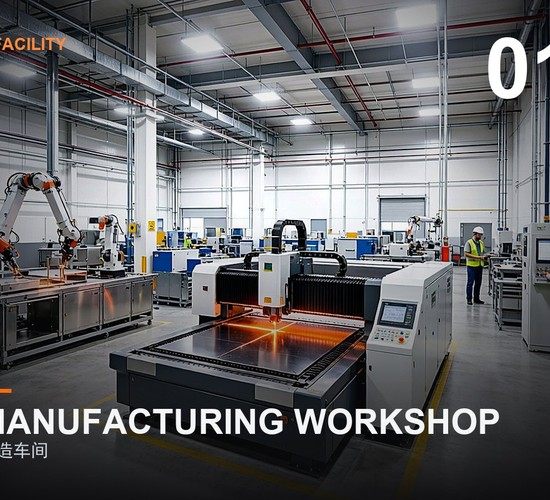
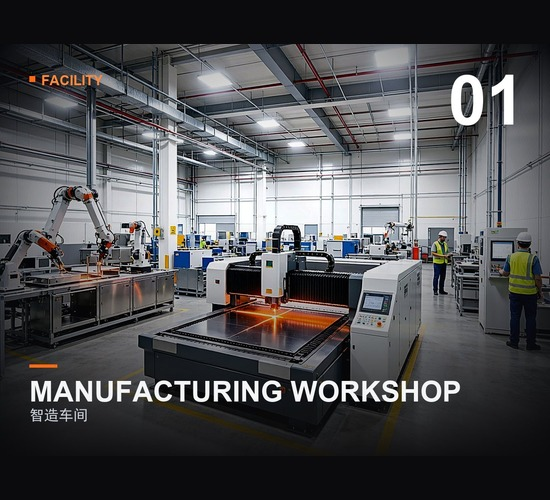
chore(oem-odm): regenerate full-content 550x500 image (contain); bump v12

diff --git a/oem-odm.html b/oem-odm.html
@@ -7,7 +7,7 @@
   <title>Smart Cooking Robot OEM / ODM / JDM Services | Guangdong Dongji</title>
   <meta name="description" content="Dongji is a China-based smart cooking robot OEM, ODM and JDM contract manufacturer. From concept, industrial design and prototyping to certification and mass production — build your own cooking robot brand with a 30,000㎡ in-house factory." />
   <link rel="icon" type="image/png" href="images/logo.png" />
-  <link rel="stylesheet" href="css/style.css?v=11" />
+  <link rel="stylesheet" href="css/style.css?v=12" />
   <link rel="canonical" href="https://smartwokpro.com/oem-odm.html" />
   <script type="application/ld+json">
 {
@@ -107,7 +107,7 @@
   <!-- Hero -->
   <section class="product-hero" id="home">
     <div class="container product-hero-inner">
-      <div class="product-img"><img src="images/factory-550x500.jpg?v=1" alt="Dongji smart cooking robot manufacturing" width="550" height="500" style="width:550px;height:auto;aspect-ratio:auto;object-fit:contain;" /></div>
+      <div class="product-img"><img src="images/factory-550x500.jpg?v=2" alt="Dongji smart cooking robot manufacturing" width="550" height="500" style="width:550px;height:auto;aspect-ratio:auto;object-fit:contain;" /></div>
       <div class="product-intro">
         <nav class="breadcrumb"><a href="index.html">Home</a> / <span>OEM / ODM / JDM</span></nav>
         <span class="tag">Contract Manufacturing</span>

diff --git a/oem-odm-zh.html b/oem-odm-zh.html
@@ -7,7 +7,7 @@
   <title>智能炒菜机 OEM / ODM / JDM 代工 | 广东东吉智能设备</title>
   <meta name="description" content="广东东吉智能设备有限公司是中国智能炒菜机 OEM、ODM、JDM 代工制造商，拥有 30000㎡ 自建工厂，提供从概念、工业设计、打样、认证到量产的一站式服务，助您打造自有炒菜机品牌。" />
   <link rel="icon" type="image/png" href="images/logo.png" />
-  <link rel="stylesheet" href="css/style.css?v=11" />
+  <link rel="stylesheet" href="css/style.css?v=12" />
   <link rel="canonical" href="https://smartwokpro.com/oem-odm-zh.html" />
   <script type="application/ld+json">
 {
@@ -106,7 +106,7 @@
 
   <section class="product-hero" id="home">
     <div class="container product-hero-inner">
-      <div class="product-img"><img src="images/factory-550x500.jpg?v=1" alt="东吉智能炒菜机制造" width="550" height="500" style="width:550px;height:auto;aspect-ratio:auto;object-fit:contain;" /></div>
+      <div class="product-img"><img src="images/factory-550x500.jpg?v=2" alt="东吉智能炒菜机制造" width="550" height="500" style="width:550px;height:auto;aspect-ratio:auto;object-fit:contain;" /></div>
       <div class="product-intro">
         <nav class="breadcrumb"><a href="zh.html">首页</a> / <span>OEM / ODM / JDM</span></nav>
         <span class="tag">代工制造</span>

diff --git a/index.html b/index.html
@@ -8,7 +8,7 @@
   <meta name="description" content="Guangdong Dongji Intelligent Equipment Co., Ltd. — a professional OEM, ODM and JDM contract manufacturer for smart cooking robots. 15 years of manufacturing, exported to 50+ countries, delivering finished robots under your brand from concept to mass production." />
   <link rel="icon" type="image/png" href="images/logo.png" />
   <link rel="preload" href="images/hero-bg.webp" as="image" type="image/webp" fetchpriority="high">
-  <link rel="stylesheet" href="css/style.css?v=11" />
+  <link rel="stylesheet" href="css/style.css?v=12" />
   <link rel="canonical" href="https://smartwokpro.com/" />
   <script type="application/ld+json">
 {

diff --git a/zh.html b/zh.html
@@ -8,7 +8,7 @@
   <meta name="description" content="广东东吉智能设备有限公司 — 专业智能炒菜机 OEM、ODM、JDM 代工制造。15 年智造经验，出口 50+ 国家，为餐饮品牌与设备商提供从概念到量产的整机代工服务。" />
   <link rel="icon" type="image/png" href="images/logo.png" />
   <link rel="preload" href="images/hero-bg.webp" as="image" type="image/webp" fetchpriority="high">
-  <link rel="stylesheet" href="css/style.css?v=11" />
+  <link rel="stylesheet" href="css/style.css?v=12" />
   <link rel="canonical" href="https://smartwokpro.com/zh.html" />
   <script type="application/ld+json">
 {

diff --git a/products/single-wok-en.html b/products/single-wok-en.html
@@ -7,7 +7,7 @@
   <title>Single-Wok Series Cooking Robot | Smart Cooking Robot OEM / ODM / JDM Contract Manufacturer</title>
   <meta name="description" content="A compact countertop single-wok model for small restaurants, delivery kitchens, cafés and new chain brands — an easy first step into cooking automation." />
   <link rel="icon" type="image/png" href="../images/logo.png" />
-  <link rel="stylesheet" href="../css/style.css?v=11" />
+  <link rel="stylesheet" href="../css/style.css?v=12" />
   <link rel="canonical" href="https://smartwokpro.com/products/single-wok-en.html" />
   <script type="application/ld+json">
 {

diff --git a/factory.html b/factory.html
@@ -7,7 +7,7 @@
   <title>Smart Cooking Robot Factory | Dongji Manufacturing Base in China</title>
   <meta name="description" content="Tour Dongji's 30,000㎡ smart cooking robot factory in China's Greater Bay Area: in-house laser cutting, CNC, bending, welding, coating, assembly and testing for OEM / ODM / JDM cooking robot production." />
   <link rel="icon" type="image/png" href="images/logo.png" />
-  <link rel="stylesheet" href="css/style.css?v=11" />
+  <link rel="stylesheet" href="css/style.css?v=12" />
   <link rel="canonical" href="https://smartwokpro.com/factory.html" />
   <script type="application/ld+json">
 {

diff --git a/products/batch-cooking-en.html b/products/batch-cooking-en.html
@@ -7,7 +7,7 @@
   <title>Batch Cooking Series Drum Cooker | Smart Cooking Robot OEM / ODM / JDM Contract Manufacturer</title>
   <meta name="description" content="A drum-style high-volume continuous cooker for institutional catering, central kitchens, schools and large meal services with standardized output." />
   <link rel="icon" type="image/png" href="../images/logo.png" />
-  <link rel="stylesheet" href="../css/style.css?v=11" />
+  <link rel="stylesheet" href="../css/style.css?v=12" />
   <link rel="canonical" href="https://smartwokpro.com/products/batch-cooking-en.html" />
   <script type="application/ld+json">
 {

diff --git a/factory-zh.html b/factory-zh.html
@@ -7,7 +7,7 @@
   <title>智能炒菜机工厂 | 东吉中国制造基地</title>
   <meta name="description" content="走进广东东吉位于粤港澳大湾区的 30000㎡ 智能炒菜机工厂：自有激光切割、数控、折弯、焊接、喷涂、装配与测试，承接 OEM / ODM / JDM 炒菜机生产。" />
   <link rel="icon" type="image/png" href="images/logo.png" />
-  <link rel="stylesheet" href="css/style.css?v=11" />
+  <link rel="stylesheet" href="css/style.css?v=12" />
   <link rel="canonical" href="https://smartwokpro.com/factory-zh.html" />
   <script type="application/ld+json">
 {

diff --git a/products/custom-platform-en.html b/products/custom-platform-en.html
@@ -7,7 +7,7 @@
   <title>Custom Platform Modular Solution | Smart Cooking Robot OEM / ODM / JDM Contract Manufacturer</title>
   <meta name="description" content="A modular structure with optional robotic-arm solutions, enabling deep JDM co-development and brand-exclusive customization." />
   <link rel="icon" type="image/png" href="../images/logo.png" />
-  <link rel="stylesheet" href="../css/style.css?v=11" />
+  <link rel="stylesheet" href="../css/style.css?v=12" />
   <link rel="canonical" href="https://smartwokpro.com/products/custom-platform-en.html" />
   <script type="application/ld+json">
 {

diff --git a/products/multi-wok-en.html b/products/multi-wok-en.html
@@ -7,7 +7,7 @@
   <title>Multi-Wok Series Cooking Robot | Smart Cooking Robot OEM / ODM / JDM Contract Manufacturer</title>
   <meta name="description" content="A four-wok coordinated system delivering higher output for chains and high-throughput kitchens, managed by a unified control hub." />
   <link rel="icon" type="image/png" href="../images/logo.png" />
-  <link rel="stylesheet" href="../css/style.css?v=11" />
+  <link rel="stylesheet" href="../css/style.css?v=12" />
   <link rel="canonical" href="https://smartwokpro.com/products/multi-wok-en.html" />
   <script type="application/ld+json">
 {

diff --git a/products/single-wok.html b/products/single-wok.html
@@ -7,7 +7,7 @@
   <title>Single-Wok Series 单锅智能炒菜机 | 智能炒菜机 OEM / ODM / JDM 代工制造</title>
   <meta name="description" content="紧凑台式单锅机型，适合小餐饮、外卖店、咖啡馆与连锁初创品牌，以最低门槛迈向烹饪自动化。" />
   <link rel="icon" type="image/png" href="../images/logo.png" />
-  <link rel="stylesheet" href="../css/style.css?v=11" />
+  <link rel="stylesheet" href="../css/style.css?v=12" />
   <link rel="canonical" href="https://smartwokpro.com/products/single-wok.html" />
   <script type="application/ld+json">
 {

diff --git a/products/custom-platform.html b/products/custom-platform.html
@@ -7,7 +7,7 @@
   <title>Custom Platform 模块化定制平台 | 智能炒菜机 OEM / ODM / JDM 代工制造</title>
   <meta name="description" content="模块化结构与机械臂方案，支持深度 JDM 联合研发与品牌定制，打造差异化独占产品。" />
   <link rel="icon" type="image/png" href="../images/logo.png" />
-  <link rel="stylesheet" href="../css/style.css?v=11" />
+  <link rel="stylesheet" href="../css/style.css?v=12" />
   <link rel="canonical" href="https://smartwokpro.com/products/custom-platform.html" />
   <script type="application/ld+json">
 {
